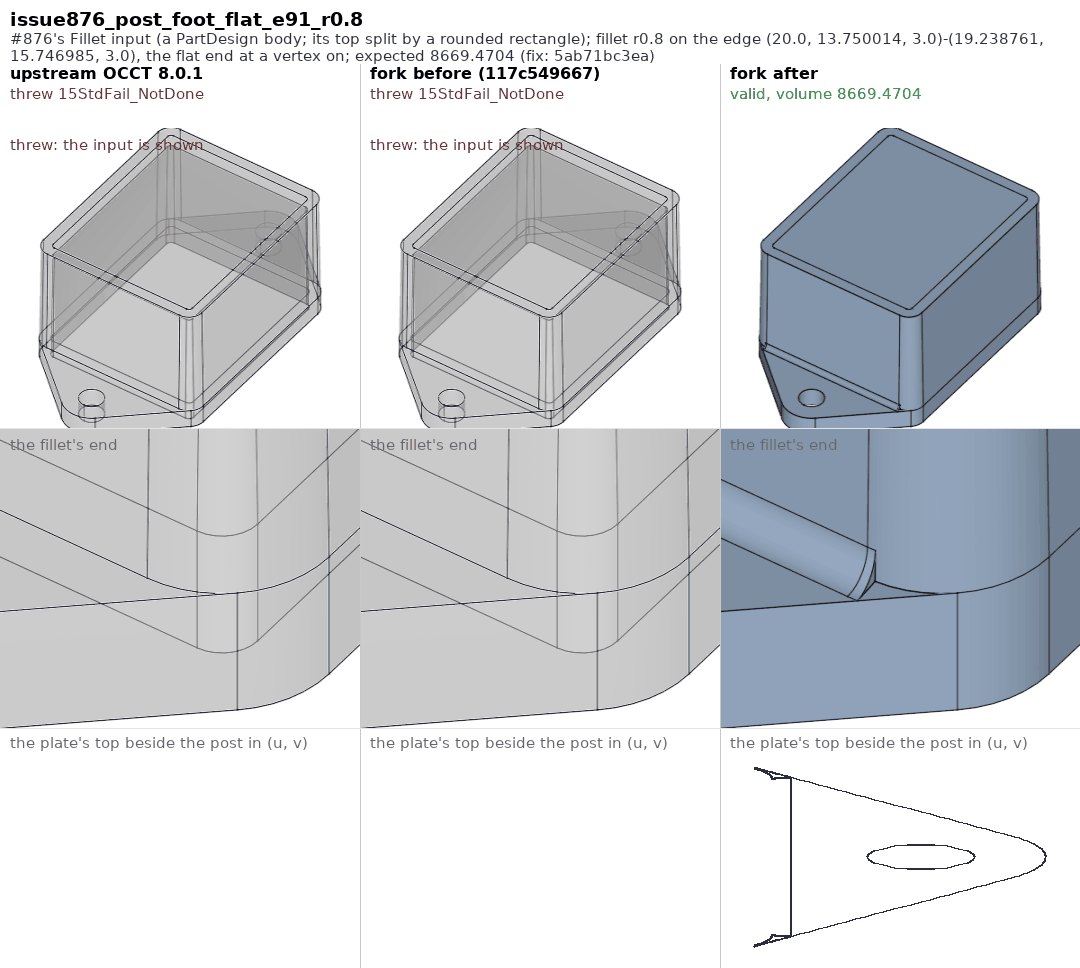
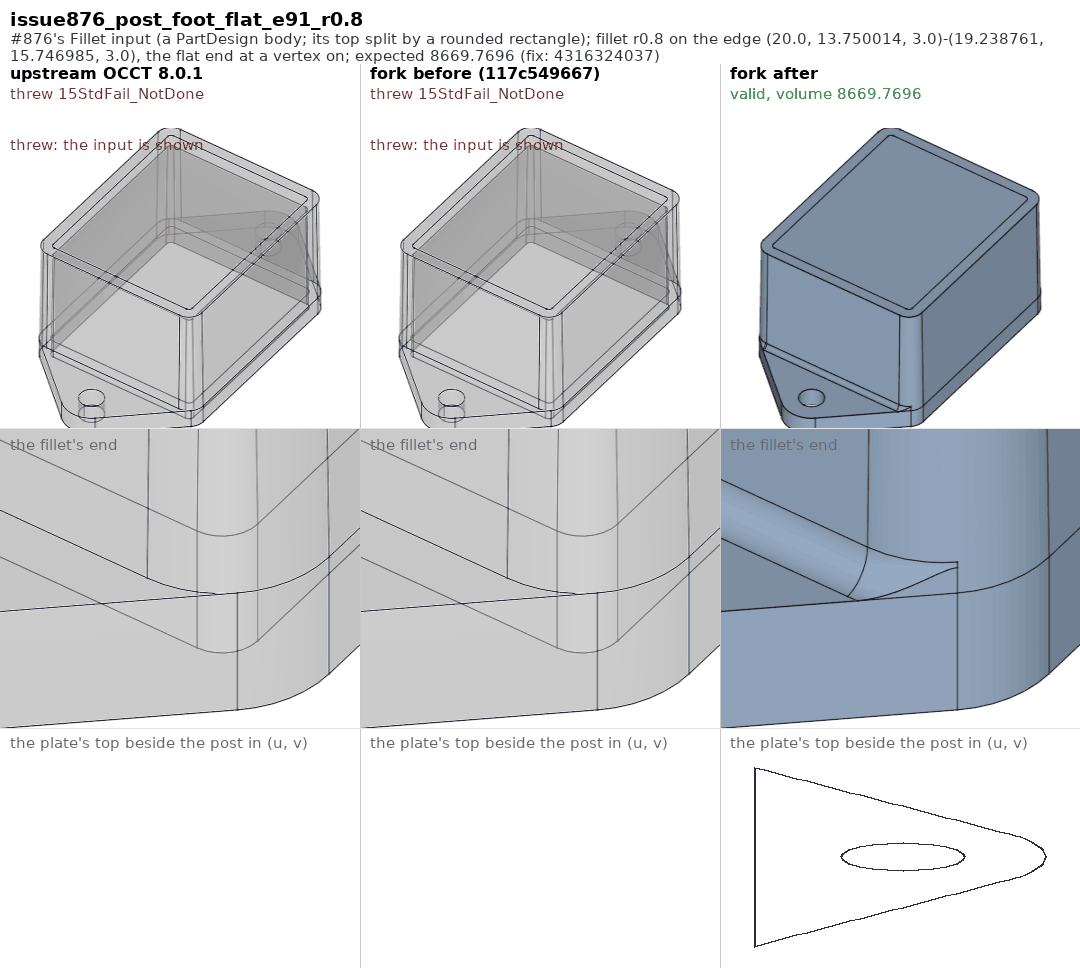
fillet: #876's post foot run on to the vertex
Cases for 4316324037: the drafted post model run on to the vertices, its
volume the booleans' (the fillet's material on a plate wide all round,
kept within the plate's footprint and between the vertices' end planes);
#876's foot at the run-on's volumes. The straight post stays flat. README
subsection "Run on to the vertex", Fillet.md section, picture remade.

Claude-Session: https://claude.ai/code/session_019dJCtsmmZHTdJGXouXkmF8

diff --git a/fillet/run_tests.py b/fillet/run_tests.py
@@ -2893,16 +2893,17 @@ fillet_case("issue273_dhole_rim_flat_e36_r2", sweep_shape("issue273_Fillet"), 36
 # leaves the post, and the fillet's line on the top runs off it over the
 # rim short of that vertex (at r 0.3, 24.6 deg of the arc short). The face
 # at end, the plate's side carried up, misses the line on the post (drafted)
-# or meets it only tangent to it (flush): refused. With the flat end the
-# fillet ends flat in its section where the line meets the rim, the foot
-# kept sharp from there to the vertex, once everything else failed
+# or meets it only tangent to it (flush): refused. With the flat end, once
+# everything else failed, the fillet runs on to the vertex, cut by the
+# plate's side carried up (drafted), or ends flat in its section where the
+# line meets the rim, the foot kept sharp from there to the vertex (flush)
 # (README.md, "A fillet whose line runs off its face short of the vertex");
 # without, still refused.
 # Here the post a rounded rectangle 40 x 33.5, its corners of radius 3, on a
 # plate whose long sides are the post's and whose corner arcs are the
 # post's from 90 to 45 deg, then run on tangent out to x=+-28; the post
-# straight or drafted 1 deg.
-def post_flush_on_plate(draft):
+# straight or drafted 1 deg. The plate's face and the post apart.
+def post_flush_parts(draft):
     c = 0.5 ** 0.5
 
     def arc(cx, cy, a0, a1, z=0.0):
@@ -2921,7 +2922,7 @@ def post_flush_on_plate(draft):
            arc(-17, -13.75, -90, -135), Part.LineSegment(V(-a.x, -a.y, 0), V(-28, -b.y, 0)).toShape(),
            Part.LineSegment(V(-28, -b.y, 0), V(-28, b.y, 0)).toShape(),
            Part.LineSegment(V(-28, b.y, 0), V(-a.x, a.y, 0)).toShape(), arc(-17, 13.75, 135, 90)]
-    plate = Part.Face(Part.Wire(Part.__sortEdges__(rim))).extrude(V(0, 0, 3))
+    plate = Part.Face(Part.Wire(Part.__sortEdges__(rim)))
 
     def rounded(off, z):
         hx, hy, r = 20 - off, 16.75 - off, 3 - off
@@ -2939,12 +2940,33 @@ def post_flush_on_plate(draft):
             Part.ArcOfCircle(Part.Circle(V(-hx + r, -hy + r, z), V(0, 0, 1), r), math.pi,
                              1.5 * math.pi).toShape()]))
 
-    post = Part.makeLoft([rounded(0, 3), rounded(17.6 * math.tan(math.radians(draft)), 20.6)],
-                         True, True)
-    s = plate.fuse(post).removeSplitter()
+    return plate, Part.makeLoft(
+        [rounded(0, 3), rounded(17.6 * math.tan(math.radians(draft)), 20.6)], True, True)
+
+
+def post_flush_on_plate(draft):
+    c = 0.5 ** 0.5
+    plate, post = post_flush_parts(draft)
+    s = plate.extrude(V(0, 0, 3)).fuse(post).removeSplitter()
     # the foot's arc at the corner (17, 13.75), the chain's end: its
     # tangent run along x=20 and round the corner (17, -13.75) is the spine
     return s, edge_between(s, (20, 13.75, 3), (17 + 3 * c, 13.75 + 3 * c, 3))
+
+
+# What the fillet run on to the vertices adds, by booleans: the fillet's
+# material along x=20 on a plate wide all round, kept within the plate's
+# footprint and between the vertices' end planes (through the corners'
+# axes at 45 deg)
+def post_flush_run_on_added(draft, r):
+    plate, post = post_flush_parts(draft)
+    wide = Part.makeBox(80, 80, 3, V(-40, -40, 0)).fuse(post).removeSplitter()
+    foot = [e for e in wide.Edges if abs(e.BoundBox.ZMin - 3) < 1e-7
+            and abs(e.BoundBox.ZMax - 3) < 1e-7 and abs(e.BoundBox.XMin - 20) < 1e-7
+            and abs(e.BoundBox.XMax - 20) < 1e-7]
+    wedge = Part.Face(Part.makePolygon([V(17, 13.75, 0), V(57, 53.75, 0), V(57, -53.75, 0),
+                                        V(17, -13.75, 0), V(17, 13.75, 0)])).extrude(V(0, 0, 10))
+    return (wide.makeFillet(r, foot).cut(wide).common(plate.extrude(V(0, 0, 10)))
+            .common(wedge).Volume)
 
 
 # The undrafted post: the fillet adds r^2 (1 - pi/4) swept along the foot at
@@ -2960,21 +2982,16 @@ for _r in (0.3, 1.0):
                 _pf.Volume + _r * _r * (1 - math.pi / 4) * (2 * _cen * _th + 27.5), vol_tol=1e-4,
                 bop=True, flat=True)
 refused_case("post_flush_on_plate_r0.3_refused", _pf, _pfe, 0.3)
-# Drafted 1 deg: the faces at 91 deg, the section's area r^2 (cot 45.5 deg -
-# 44.5 deg in radians), its line on the top r cot 45.5 deg out; swept as
-# above, the centroid taken as at 90 deg (within 2e-4 of the result)
+# Drafted 1 deg: run on to the vertices, the volume the booleans' above
+# (within 2.2e-4 at 0.3, 7e-5 at 1)
 _pd, _pde = post_flush_on_plate(1.0)
-_cot = 1 / math.tan(math.radians(45.5))
 for _r in (0.3, 1.0):
-    _cen = 3 + _r * (10 - 3 * math.pi) / (3 * (4 - math.pi))
-    _th = math.radians(45) - math.acos(3 / (3 + _r * _cot))
     fillet_case("post_flush_draft_on_plate_flat_r%g" % _r, _pd, _pde, _r, "pass",
-                _pd.Volume + _r * _r * (_cot - math.radians(44.5)) * (2 * _cen * _th + 27.5),
-                vol_tol=1e-3, bop=True, flat=True)
+                _pd.Volume + post_flush_run_on_added(1.0, _r), vol_tol=1e-3, bop=True, flat=True)
 refused_case("post_flush_draft_on_plate_r0.3_refused", _pd, _pde, 0.3)
 # #876's own: the post's foot along x=+20 (E91 and on) and x=-20 (E30 and
-# on), 1 deg drafted, at 0.3 and 0.8
-for _e, _r, _vol in ((91, 0.3, 8666.3282), (30, 0.3, 8666.3282), (91, 0.8, 8669.4704)):
+# on), 1 deg drafted, at 0.3 and 0.8, run on to the vertices
+for _e, _r, _vol in ((91, 0.3, 8666.3557), (30, 0.3, 8666.3557), (91, 0.8, 8669.7696)):
     fillet_case("issue876_post_foot_flat_e%d_r%g" % (_e, _r), sweep_shape("issue876_Fillet"), _e,
                 _r, "pass", _vol, vol_tol=1e-3, bop=True, flat=True)
 refused_case("issue876_post_foot_e91_r0.3_refused", sweep_shape("issue876_Fillet"), 91, 0.3)

diff --git a/fillet/pictures/cases.py b/fillet/pictures/cases.py
@@ -95,7 +95,7 @@ STAGES = {
     "sloftend": ("f5902943f4", "2bde18d4b5"),
     "srefuse": ("2bde18d4b5", "6271a7f719"),
     "smissed": ("117f0aa8af", "117c549667"),
-    "srimend": ("117c549667", "5ab71bc3ea"),
+    "srimend": ("117c549667", "4316324037"),
 }
 # stage -> the toolkits its "before" library is built of, when not TKFillet alone
 STAGE_TOOLKITS = {
@@ -1329,12 +1329,12 @@ CASES = {
     # #876's post, its foot along x=20 (E91 and on): the plate's rim runs
     # flush into the post's corner, tangent to its arc, and the top narrows
     # to nothing at (19.24, 15.75); the fillet's line on the top meets the
-    # rim short of it, and nothing closed the fillet: refused. Ended flat
-    # where the line meets the rim now, the foot sharp from there, once
-    # everything else failed (FLAT)
+    # rim short of it, and nothing closed the fillet: refused. Run on to the
+    # vertex now, cut by the plate's side carried up, once everything else
+    # failed (FLAT)
     "issue876_post_foot_flat_e91_r0.8": (
         "srimend", "p876f", ((20.0, 13.750014, 3.0), (19.238761, 15.746985, 3.0)), 0.8,
-        8669.4704, (19.9, 14.6, 3.3), (1, 0.7, 0.9)),
+        8669.7696, (19.9, 14.6, 3.3), (1, 0.7, 0.9)),
     # x16win's chamfer, run on along the mitre of two fillets to their corner
     # (2,30,8), where both turn flush with the back face; the radius is the
     # larger distance (CHAMFER has them)

diff --git a/fillet/README.md b/fillet/README.md
@@ -5469,8 +5469,9 @@ until no face is pinched (a fillet made flat so at both its ends on one
 face). Not where a loop is no longer than ten times what the vertex covers,
 as the coincident vertices' rule has it: #273's handle at 0.8 has a fillet
 face whose wire passes a vertex of tolerance 0.011 twice with a loop of one
-edge 3.2e-4 long between, and cut off, it made a face of no area. Unlike the flat end, the split applies to every result; the sweeps
-below say what it changes.
+edge 3.2e-4 long between, and cut off, it made a face of no area. Unlike
+the flat end, the split applies to every result; the sweeps below say what
+it changes.
 
 On the model the volumes are those of the section swept along the foot
 from one flat end to the other: r^2 (1 - pi/4) at its centroid, r (10 - 3
@@ -5501,10 +5502,50 @@ None of that now.
 | Case | What it covers |
 |------|----------------|
 | `post_flush_on_plate_flat_r{0.3,1}` | the post straight: made flat at both ends, the volume swept as above |
-| `post_flush_draft_on_plate_flat_r{0.3,1}` | the post drafted 1 deg: the same, within 1e-3 of the estimate |
+| `post_flush_draft_on_plate_flat_r{0.3,1}` | the post drafted 1 deg: run on to the vertices (below), the volume the booleans' |
 | `post_flush_on_plate_r0.3_refused`, `post_flush_draft_on_plate_r0.3_refused` | without the flat end, refused as before |
-| `issue876_post_foot_flat_e91_r{0.3,0.8}`, `issue876_post_foot_flat_e30_r0.3` | #876's post's foot, made |
+| `issue876_post_foot_flat_e91_r{0.3,0.8}`, `issue876_post_foot_flat_e30_r0.3` | #876's post's foot, made, run on to the vertices (below) |
 | `issue876_post_foot_e91_r0.3_refused` | without the flat end, refused |
+
+### Run on to the vertex (`4316324037`, 2026-10-26)
+
+The flat end left the foot sharp from the rim to the vertex and a step in
+the fillet there; what is wanted is the fillet run on to the vertex, cut by
+the plate's side carried up, the side rising in a curved triangle to meet
+it. The walk already goes on past the rim: where a side's line runs off its
+face at a stripe's end, the builder walks on on that face's tangent plane
+to the spine's end (`ChFi3d_BuildPlane`), a SurfData of no face on that
+side (the surplus the corner skips), or the same walk kept in the end's
+SurfData, its line on the top ending at the rim and the other running on
+(#876's foot along `E91`). `MakeRimRunOn` cuts that surface by the plate's
+side surface from the point on the rim to Q, where the cut reaches the
+plane through the vertex square to the spine, and ends it there. The
+plate's side carried up is a face of its own, between the rim's piece from
+the point to the vertex, the cut and the line up from the vertex in that
+plane; the post, drafted, leans off it there, by 1 deg, and a sliver in
+the end plane (the vertex, Q and the post's line there) closes the rest --
+0.17 high at 1, the section's drop 0.017 out from the post. The foot is
+filleted to the vertex and nothing of it kept. Each new face takes its way
+in the solid from its surface's: the fillet's as the SurfData, the side's
+as the plate's side.
+
+Where the plate's side touches the post along the line up from the vertex
+(the post straight), the cut ends on the post's line there, tangent to it,
+a face with a corner of no angle, which the topology made no closed wire
+of: that end stays flat. So does any end the run-on cannot make.
+
+On the drafted model the volume is that of booleans that build the same
+thing -- the fillet's material on a plate wide all round, kept within the
+plate's footprint and between the vertices' end planes: 0.57826 at 0.3
+against 0.57804, 6.26539 at 1 against 6.26532, valid and clean by BOP's
+check. On #876 the foot along x=20 is made at 0.3 (+0.57179, 0.01377 more
+than flat at each end) and 0.8 (+3.98573), along x=-20 at 0.3 and 0.8,
+valid and clean.
+
+The flat sweeps change only in #876's foot: the same 24 edge and 128
+vertex cases made, now run on; on `issue876_Fillet001` BOP's check still
+reports only the input's own five edges. The sweeps without the flat end
+do not reach it.
 
 ## Known broken (XFAIL)
 

diff --git a/fillet/models/Fillet.md b/fillet/models/Fillet.md
@@ -2142,7 +2142,7 @@ before refuse it (the input, greyed).
 
 ![issue962_ring_rim_flat_e26_r2](pictures/issue962_ring_rim_flat_e26_r2.png)
 
-### A fillet whose line runs off its face short of the vertex (`5ab71bc3ea`, #876's post)
+### A fillet whose line runs off its face short of the vertex (`4316324037`, #876's post)
 
 #876's post stands on a plate whose long sides are flush with the post's
 and whose corner arcs are the post's own, until the plate's rim leaves the
@@ -2153,12 +2153,15 @@ there is no top to carry the fillet. Nothing could close the fillet --
 the plate's side carried up misses the post, drafted 1 deg, or is the
 post's own wall where it is straight -- and the fillet was refused. With
 the flat end at a vertex on, as FreeCAD's Fillets have it, the fillet now
-ends flat where its line meets the rim, square to the foot, and the foot
-is kept sharp from there to the vertex; only once everything else has
-failed. The plate's top then touches itself at that point, two regions of
-one face meeting there, and is split in two as #523's top is. Here at 0.8,
-valid and clean by BOP's check; upstream and the fork before refuse it
-(the input, greyed).
+runs on to the vertex, cut by the plate's side carried up, which rises in
+a small curved triangle to meet it; at the vertex, where the post leans
+off the plate's side by its degree of draft, a sliver closes the end. Only
+once everything else has failed. Where the post stands straight, the
+plate's side touching it along a line, the fillet ends flat where its line
+meets the rim instead (`5ab71bc3ea`), the foot kept sharp from there to
+the vertex, and the plate's top, touching itself at that point, is split
+in two as #523's is. Here at 0.8, valid and clean by BOP's check; upstream
+and the fork before refuse it (the input, greyed).
 
 ![issue876_post_foot_flat_e91_r0.8](pictures/issue876_post_foot_flat_e91_r0.8.png)
 
